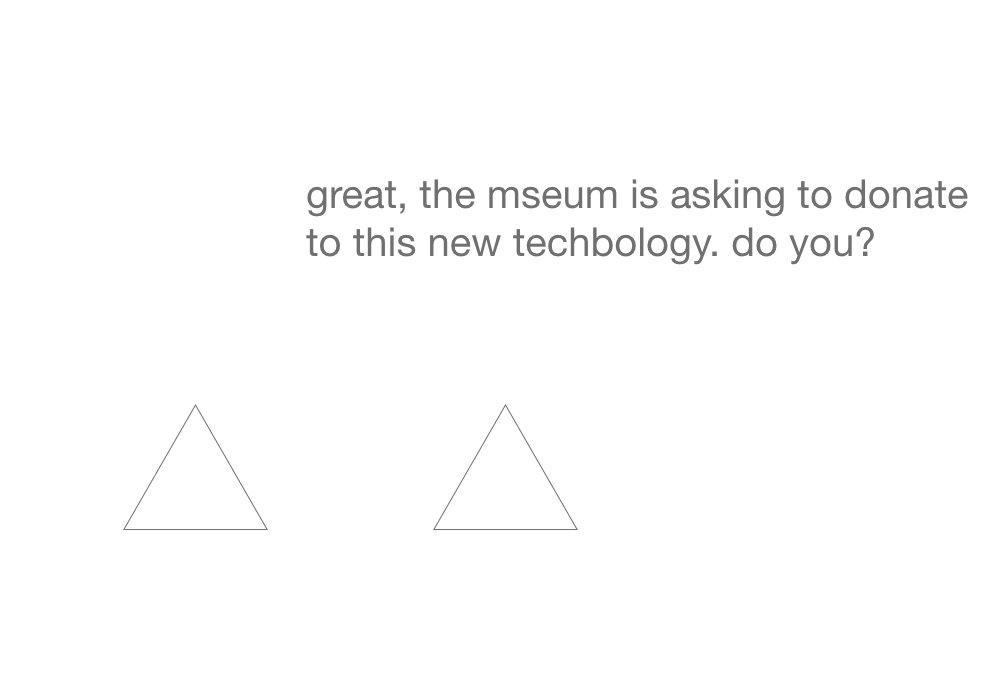
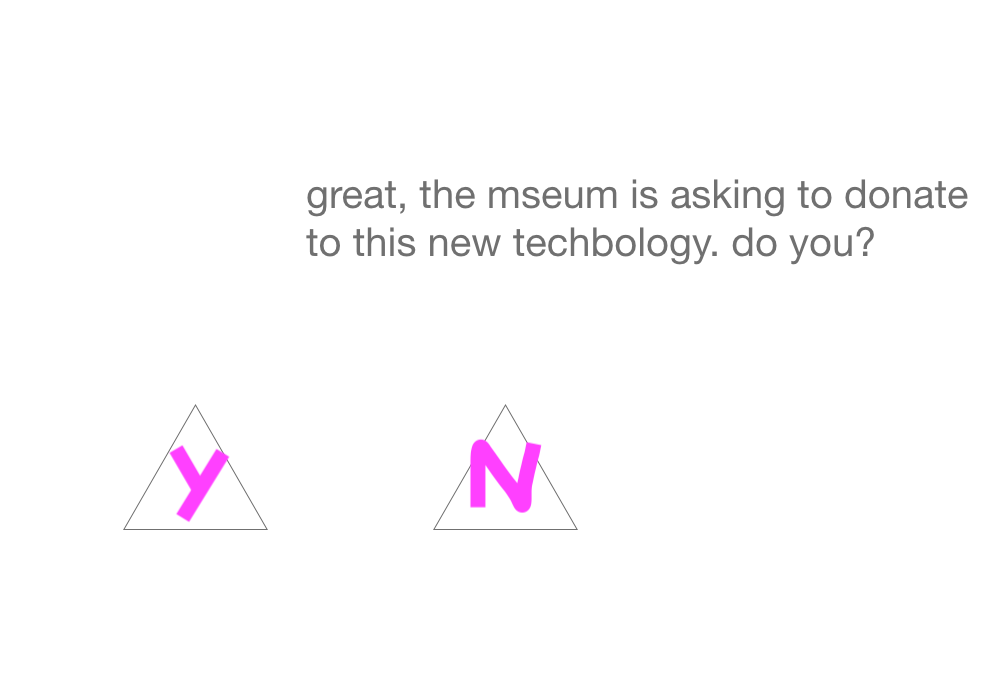
added skeleton

Changed region(s): [[0.465, 0.63, 0.558, 0.75], [0.155, 0.63, 0.248, 0.75]]

diff --git a/sketch.js b/sketch.js
@@ -160,6 +160,42 @@ function keyPressed() {
             print("New Score: ",totalScore);
         }
     }
+    
+    if (adventureManager.getStateName() == "ChooseViewer"){
+        if (key === '1'){
+            totalScore = totalScore + 2;
+            print("New Score: ",totalScore);
+        }
+        else if (key === '2'){
+            totalScore = totalScore;
+            print("New Score: ",totalScore);
+        }
+    }
+    
+    if (adventureManager.getStateName() == "Donate"){
+        if (key === 'Y'){
+            print("Total Score: ",totalScore);
+            //adventureManager.changeState("Ending1");
+            if ( totalScore == 1){
+                adventureManager.changeState("Ending1");
+            }
+            else if ( totalScore >= 2 && totalScore <= 5 ){
+                adventureManager.changeState("Ending2");
+            }
+            else if ( totalScore >= 6 ){
+                adventureManager.changeState("Ending3");
+            }
+        }
+        else if (key === 'N'){
+            print("Total Score: ",totalScore);
+            if ( totalScore == 1){
+                adventureManager.changeState("Ending4");
+            }
+            else {
+                adventureManager.changeState("Ending5");
+            }
+        }
+    }
     // dispatch all keys to adventure manager
     adventureManager.keyPressed(key);
 }
